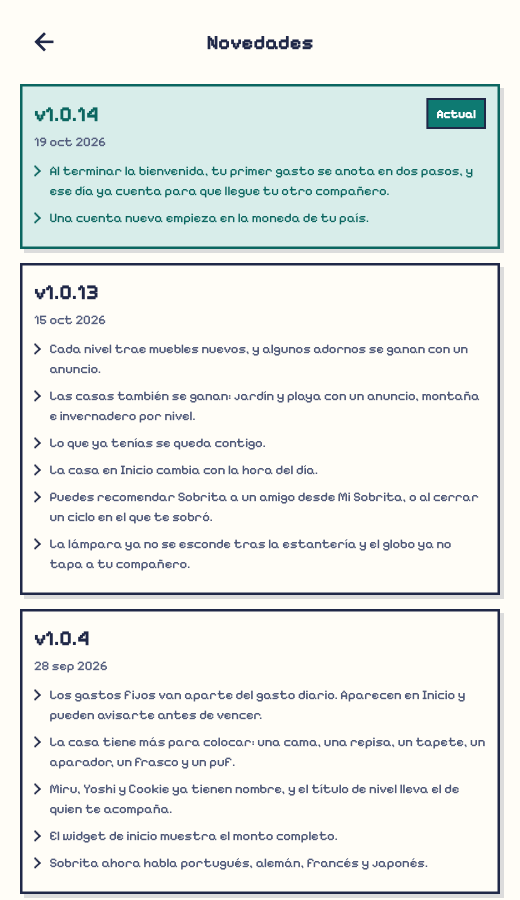
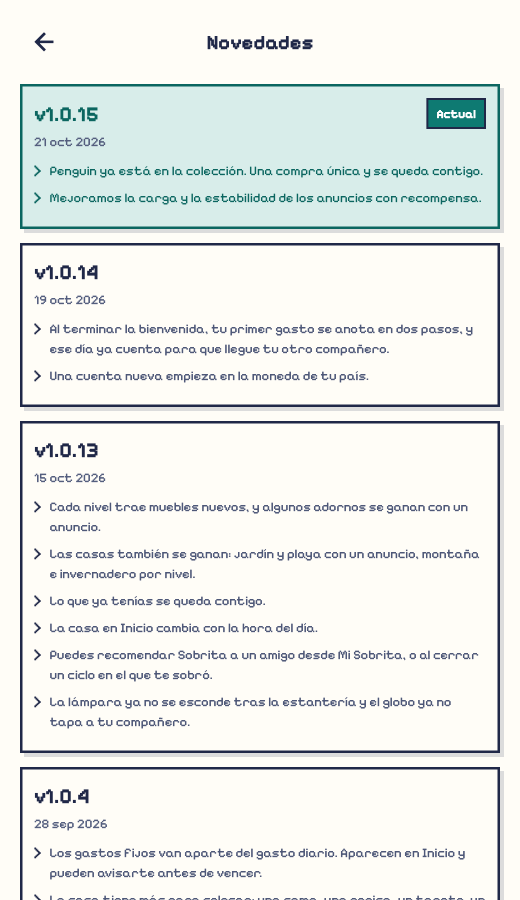
chore: move to 1.0.15+25 with notes for Penguin and rewarded ads
1.0.14+24 is already in Play, so the build that adds Penguin takes a new
version name. The in-app notes gain two lines in all seven languages,
Penguin in the collection and steadier rewarded ads; 1.0.2 drops off to
keep five versions, and the notes golden is redrawn. The Play "What's new"
text sits in design/store/play-whats-new-1.0.15.md, ready to paste.

Changed region(s): [[0.0308, 0.1867, 0.9846, 1.0], [0.1538, 0.1244, 0.1846, 0.1556]]

diff --git a/lib/data/release_notes.dart b/lib/data/release_notes.dart
@@ -37,6 +37,14 @@ class ReleaseNote {
 /// nothing, which is what [ReleaseAnnouncements] reads a missing note as.
 final releaseNotes = <ReleaseNote>[
   ReleaseNote(
+    version: '1.0.15',
+    releasedOn: DateTime(2026, 10, 21),
+    lines: [
+      (l10n) => l10n.releaseNote1015Penguin,
+      (l10n) => l10n.releaseNote1015Ads,
+    ],
+  ),
+  ReleaseNote(
     version: '1.0.14',
     releasedOn: DateTime(2026, 10, 19),
     lines: [
@@ -73,16 +81,6 @@ final releaseNotes = <ReleaseNote>[
     lines: [
       (l10n) => l10n.releaseNote103GuineaPig,
       (l10n) => l10n.releaseNote103Widget,
-    ],
-  ),
-  ReleaseNote(
-    version: '1.0.2',
-    releasedOn: DateTime(2026, 9, 23),
-    lines: [
-      (l10n) => l10n.releaseNote102Schnauzer,
-      (l10n) => l10n.releaseNote102Rooms,
-      (l10n) => l10n.releaseNote102Missions,
-      (l10n) => l10n.releaseNote102Amounts,
     ],
   ),
 ];

diff --git a/design/store/play-whats-new-1.0.15.md b/design/store/play-whats-new-1.0.15.md
@@ -1,0 +1,53 @@
+# Play "What's new" — 1.0.15 (build 25)
+
+Paste the block below into Play Console → Release → Release notes. Play
+reads the language tags itself; each entry stays under its 500-character
+limit. The in-app notes (`lib/data/release_notes.dart`) say the same two
+things.
+
+```
+<es-419>
+• Penguin ya está en la colección. Una compra única y se queda contigo.
+• Mejoramos la carga y la estabilidad de los anuncios con recompensa.
+</es-419>
+<en-US>
+• Penguin is in the collection. One purchase, and they stay.
+• Improved rewarded-ad loading and reliability.
+</en-US>
+<pt-BR>
+• O Penguin chegou à coleção. Uma compra única e ele fica com você.
+• Melhoramos o carregamento e a estabilidade dos anúncios com recompensa.
+</pt-BR>
+<ko-KR>
+• Penguin이 컬렉션에 들어왔어요. 한 번 구매하면 함께 지내요.
+• 보상형 광고를 더 안정적으로 불러오도록 개선했어요.
+</ko-KR>
+<ja-JP>
+• Penguinがコレクションに登場。一度の購入で仲間になります。
+• リワード広告の読み込みと安定性を改善しました。
+</ja-JP>
+<de-DE>
+• Penguin ist in der Sammlung. Einmal kaufen, und er bleibt.
+• Das Laden von Werbung für Belohnungen ist jetzt zuverlässiger.
+</de-DE>
+<fr-FR>
+• Penguin arrive dans la collection. Un seul achat, et il reste.
+• Le chargement des publicités avec récompense est plus fiable.
+</fr-FR>
+```
+
+## What this release contains
+
+User-facing, and in the notes:
+
+- Penguin, a paid character sold alone as `sobra.character.penguin`
+  (MX$39, not in Los amigos de Michi).
+- Rewarded ads: a load that timed out can no longer replace a retry's ad,
+  and showing has its own timeout.
+
+Shipped too, but not announced because nobody sees them as a change:
+
+- `rewarded_ad_lifecycle` Analytics event with a fixed failure category.
+
+Everything in 1.0.14+24 (the guided first expense) is included; this
+build was cut after merging `feat/first-expense-flow`.
